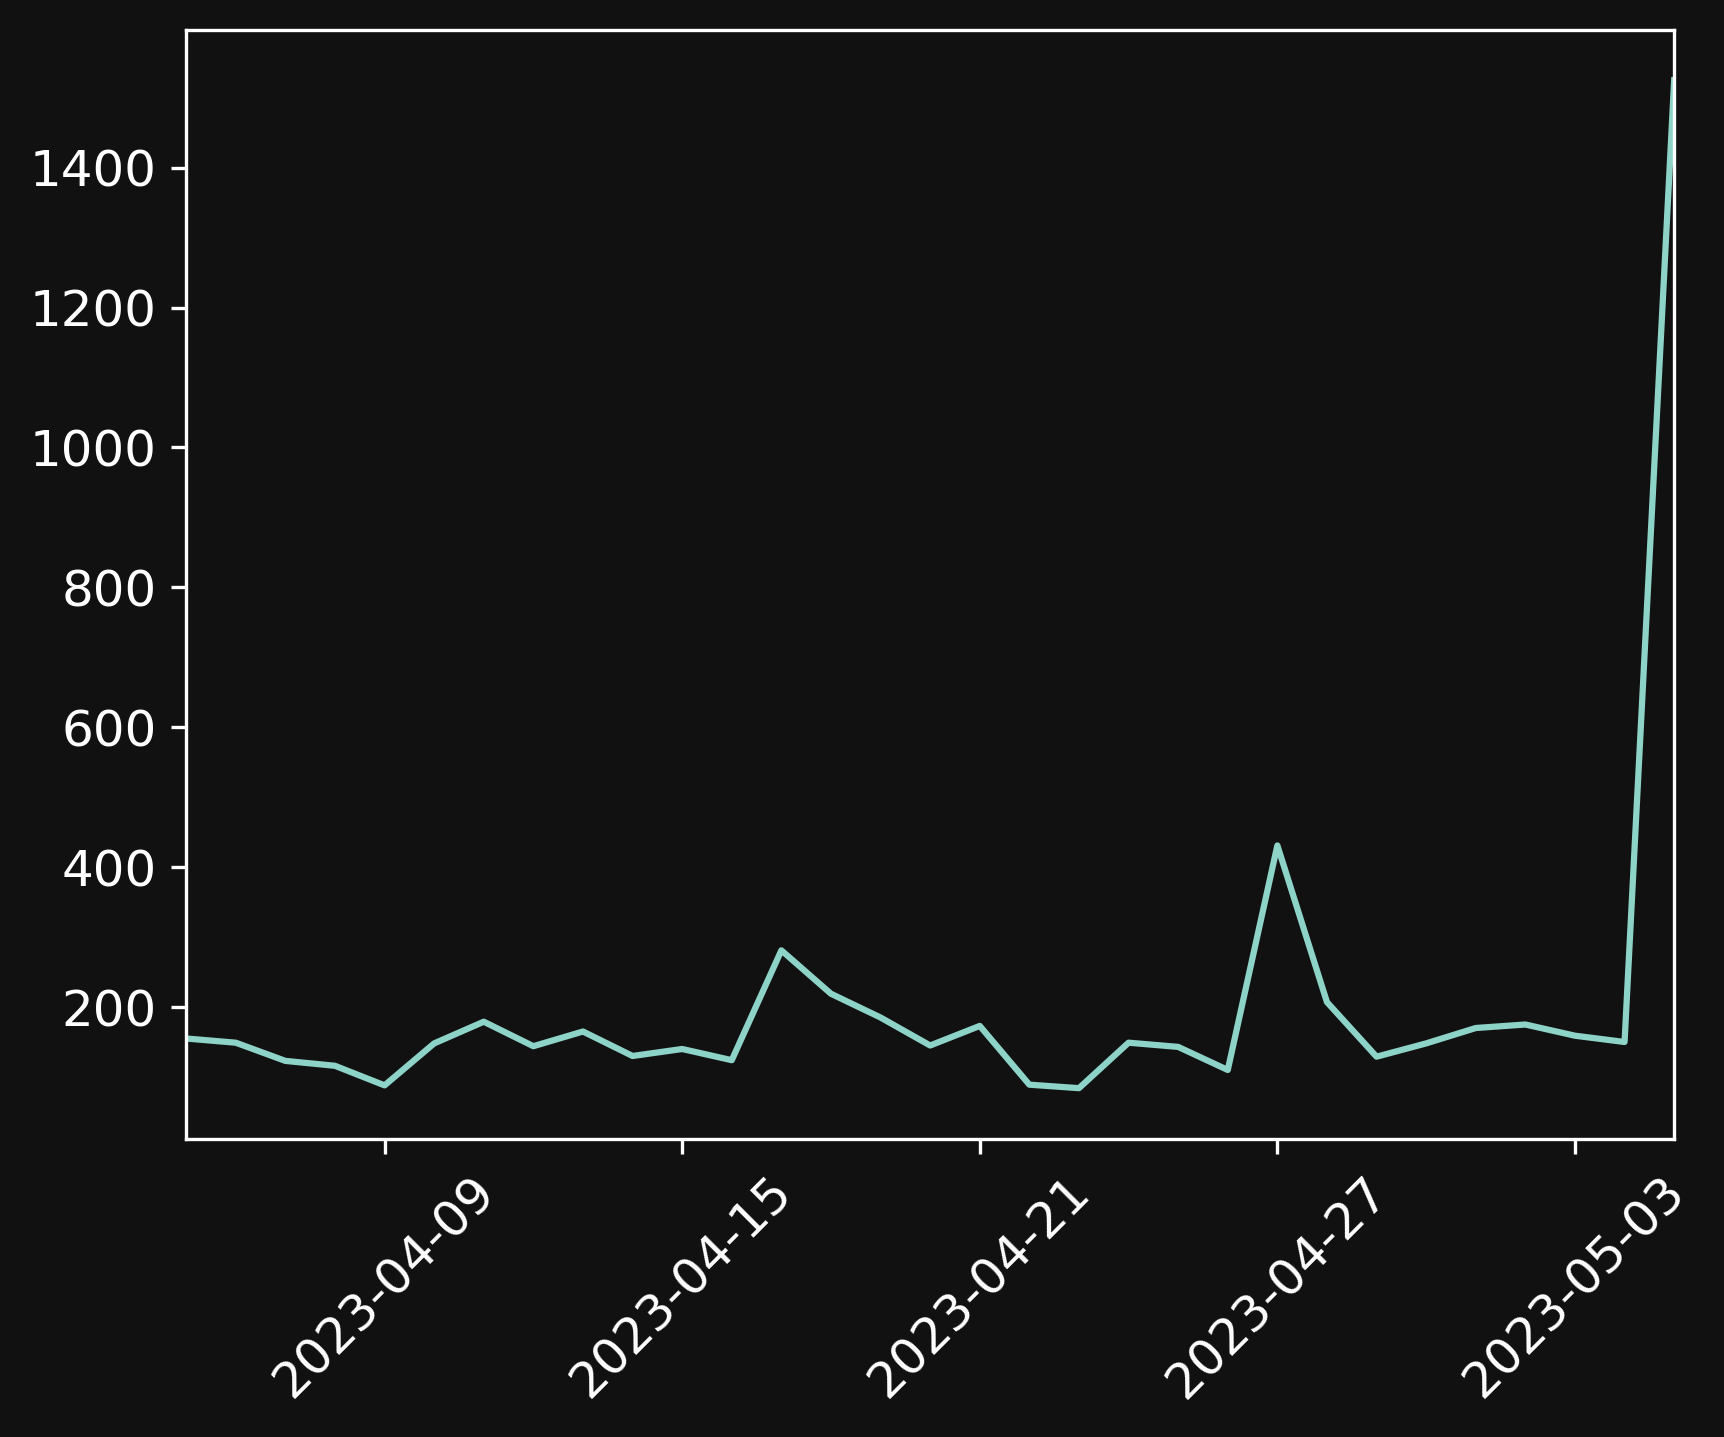
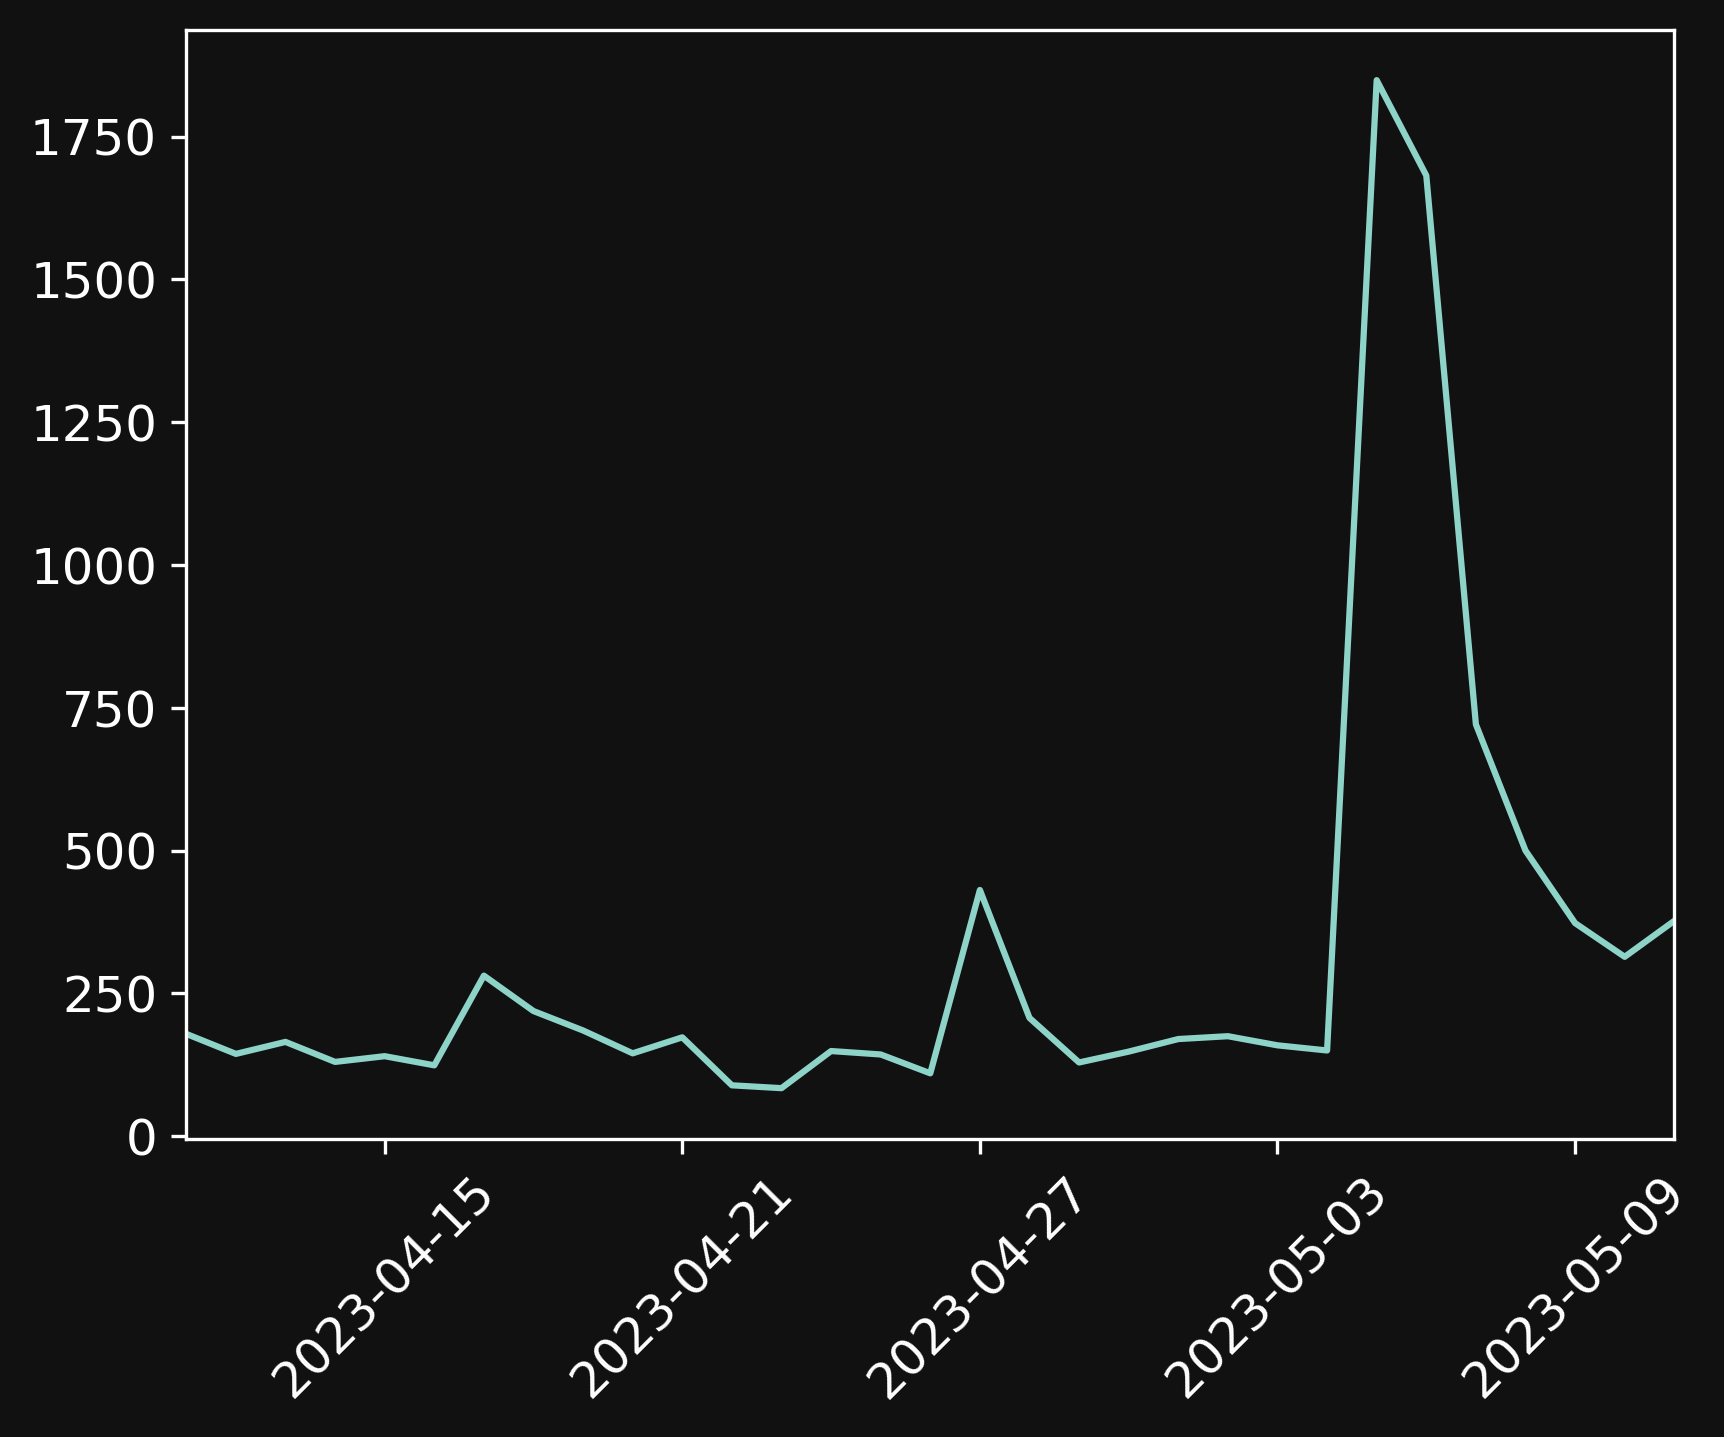
deploy: 48233be7c70ea5ae68009fdaba39e1e8a508710b

diff --git a/stats/index.html b/stats/index.html
@@ -1,7 +1,7 @@
-<!doctype html><html lang=en dir=auto><head><meta charset=utf-8><meta http-equiv=x-ua-compatible content="IE=edge"><meta name=viewport content="width=device-width,initial-scale=1,shrink-to-fit=no"><meta name=robots content="index, follow"><title>Stats | Navendu Pottekkat</title><meta name=keywords content><meta name=description content="Statistics."><meta name=author content="Navendu Pottekkat"><link rel=canonical href=https://navendu.me/stats/><script defer data-domain=navendu.me src=/misc/js/script.js data-api=/misc/api/event></script><script>window.plausible=window.plausible||function(){(window.plausible.q=window.plausible.q||[]).push(arguments)}</script><script></script><link crossorigin=anonymous href=/assets/css/stylesheet.6331ef93734e17ad083044fd4f764e0d12677d4055425ee90584ece5af6c6960.css integrity="sha256-YzHvk3NOF60IMET9T3ZODRJnfUBVQl7pBYTs5a9saWA=" rel="preload stylesheet" as=style><script src=https://ajax.googleapis.com/ajax/libs/jquery/3.5.1/jquery.min.js></script><script defer crossorigin=anonymous src=/assets/js/highlight.f413e19d0714851f6474e7ee9632408e58ac146fbdbe62747134bea2fa3415e0.js integrity="sha256-9BPhnQcUhR9kdOfuljJAjlisFG+9vmJ0cTS+ovo0FeA=" onload=hljs.initHighlightingOnLoad()></script><link rel=icon href=https://navendu.me/favicon.ico><link rel=icon type=image/png sizes=16x16 href=https://navendu.me/favicon-16x16.png><link rel=icon type=image/png sizes=32x32 href=https://navendu.me/favicon-32x32.png><link rel=apple-touch-icon href=https://navendu.me/apple-touch-icon.png><link rel=mask-icon href=https://navendu.me/safari-pinned-tab.svg><meta name=theme-color content="#2e2e33"><meta name=msapplication-TileColor content="#2e2e33"><noscript><style>#theme-toggle,.top-link{display:none}</style></noscript><meta property="og:title" content="Stats"><meta property="og:description" content="Statistics."><meta property="og:type" content="article"><meta property="og:url" content="https://navendu.me/stats/"><meta property="og:image" content="https://navendu.me/images/preview.png"><meta property="article:section" content><meta property="article:modified_time" content="2023-04-01T17:09:13+05:30"><meta property="og:site_name" content="Navendu Pottekkat"><meta name=twitter:card content="summary_large_image"><meta name=twitter:image content="https://navendu.me/images/preview.png"><meta name=twitter:title content="Stats"><meta name=twitter:description content="Statistics."><script type=application/ld+json>{"@context":"https://schema.org","@type":"BreadcrumbList","itemListElement":[{"@type":"ListItem","position":1,"name":"Stats","item":"https://navendu.me/stats/"}]}</script><script type=application/ld+json>{"@context":"https://schema.org","@type":"BlogPosting","headline":"Stats","name":"Stats","description":"Statistics.","keywords":[],"articleBody":"This page is a work in progress.\nAll the code and content of this website are publicly available. So should the statistics.\nThis page contains data and charts/insights from the data that I think you, as readers of my blog, would find interesting/relevant.\nAs mentioned in my ethics statement, this blog does not collect personal data or personally identifiable information.\nAll data is from the past month (30 days) and will be updated daily.\n","wordCount":"74","inLanguage":"en","datePublished":"0001-01-01T00:00:00Z","dateModified":"2023-04-01T17:09:13+05:30","author":{"@type":"Person","name":"Navendu Pottekkat"},"mainEntityOfPage":{"@type":"WebPage","@id":"https://navendu.me/stats/"},"publisher":{"@type":"Person","name":"Navendu Pottekkat","logo":{"@type":"ImageObject","url":"https://navendu.me/favicon.ico"}}}</script></head><body class=dark id=top><header class=header><nav class=nav><div class=logo><a href=https://navendu.me/ accesskey=h title="Navendu Pottekkat (Alt + H)">Navendu Pottekkat</a><div class=logo-switches></div></div><ul id=menu><li><a href=https://navendu.me/archives/ title=Archives><span>Archives</span></a></li><li><a href=https://navendu.me/categories/ title=Categories><span>Categories</span></a></li><li><a href=https://navendu.me/categories/daily-dose-of-pottekkat/ title="Daily Logs"><span>Daily Logs</span></a></li><li><a href=https://navendu.me/about/ title=About><span>About</span></a></li><li><a href=https://navendu.me/subscribe/ title=Subscribe><span>Subscribe</span></a></li></ul></nav></header><main class=main><article class=post-single><header class=post-header><h1 class=post-title>Stats</h1></header><div class=post-content><section class=last-run><blockquote><p><i>Last updated at 9:26 PM, 5th May 2023 (+0530)</i></p></blockquote></section><p>This page is a work in progress.</p><p>All the code and content of this website are publicly available. So should the statistics.</p><p>This page contains data and charts/insights from the data that I think you, as readers of my blog, would find interesting/relevant.</p><p>As mentioned in my <a href=/about/#ethics-statement>ethics statement</a>, this blog <a href=https://plausible.io/privacy-focused-web-analytics target=_blank>does not collect</a> personal data or personally identifiable information.</p><p>All data is from the past month (30 days) and will be updated daily.</p><section class=stats><h2 id=visitors-by-country>Visitors by Country<a hidden class=anchor aria-hidden=true href=#visitors-by-country>#</a></h2><p>It's always amazing to see people from around the world reading my blog. Most visitors come from
-India, United States of America, Kenya, and Germany.</p><figure class=align-center><img loading=lazy src=/images/stats/visitors-by-country.png#center alt="Chart showing the source of visitors over last one month."><figcaption>Stats from the last 30 days<p>Last updated at 9:26 PM, 5th May 2023 (+0530)</p></figcaption></figure><p>Shoutout to <a href=https://www.linkedin.com/in/christy-m-thomas/>Christy</a>, an actual GIS Engineer, who helped me create the chart above.</p><h2 id=visitors-per-day>Visitors per Day<a hidden class=anchor aria-hidden=true href=#visitors-per-day>#</a></h2><p>1525 people visited the
+<!doctype html><html lang=en dir=auto><head><meta charset=utf-8><meta http-equiv=x-ua-compatible content="IE=edge"><meta name=viewport content="width=device-width,initial-scale=1,shrink-to-fit=no"><meta name=robots content="index, follow"><title>Stats | Navendu Pottekkat</title><meta name=keywords content><meta name=description content="Statistics."><meta name=author content="Navendu Pottekkat"><link rel=canonical href=https://navendu.me/stats/><script defer data-domain=navendu.me src=/misc/js/script.js data-api=/misc/api/event></script><script>window.plausible=window.plausible||function(){(window.plausible.q=window.plausible.q||[]).push(arguments)}</script><script></script><link crossorigin=anonymous href=/assets/css/stylesheet.6331ef93734e17ad083044fd4f764e0d12677d4055425ee90584ece5af6c6960.css integrity="sha256-YzHvk3NOF60IMET9T3ZODRJnfUBVQl7pBYTs5a9saWA=" rel="preload stylesheet" as=style><script src=https://ajax.googleapis.com/ajax/libs/jquery/3.5.1/jquery.min.js></script><script defer crossorigin=anonymous src=/assets/js/highlight.f413e19d0714851f6474e7ee9632408e58ac146fbdbe62747134bea2fa3415e0.js integrity="sha256-9BPhnQcUhR9kdOfuljJAjlisFG+9vmJ0cTS+ovo0FeA=" onload=hljs.initHighlightingOnLoad()></script><link rel=icon href=https://navendu.me/favicon.ico><link rel=icon type=image/png sizes=16x16 href=https://navendu.me/favicon-16x16.png><link rel=icon type=image/png sizes=32x32 href=https://navendu.me/favicon-32x32.png><link rel=apple-touch-icon href=https://navendu.me/apple-touch-icon.png><link rel=mask-icon href=https://navendu.me/safari-pinned-tab.svg><meta name=theme-color content="#2e2e33"><meta name=msapplication-TileColor content="#2e2e33"><noscript><style>#theme-toggle,.top-link{display:none}</style></noscript><meta property="og:title" content="Stats"><meta property="og:description" content="Statistics."><meta property="og:type" content="article"><meta property="og:url" content="https://navendu.me/stats/"><meta property="og:image" content="https://navendu.me/images/preview.png"><meta property="article:section" content><meta property="article:modified_time" content="2023-04-01T17:09:13+05:30"><meta property="og:site_name" content="Navendu Pottekkat"><meta name=twitter:card content="summary_large_image"><meta name=twitter:image content="https://navendu.me/images/preview.png"><meta name=twitter:title content="Stats"><meta name=twitter:description content="Statistics."><script type=application/ld+json>{"@context":"https://schema.org","@type":"BreadcrumbList","itemListElement":[{"@type":"ListItem","position":1,"name":"Stats","item":"https://navendu.me/stats/"}]}</script><script type=application/ld+json>{"@context":"https://schema.org","@type":"BlogPosting","headline":"Stats","name":"Stats","description":"Statistics.","keywords":[],"articleBody":"This page is a work in progress.\nAll the code and content of this website are publicly available. So should the statistics.\nThis page contains data and charts/insights from the data that I think you, as readers of my blog, would find interesting/relevant.\nAs mentioned in my ethics statement, this blog does not collect personal data or personally identifiable information.\nAll data is from the past month (30 days) and will be updated daily.\n","wordCount":"74","inLanguage":"en","datePublished":"0001-01-01T00:00:00Z","dateModified":"2023-04-01T17:09:13+05:30","author":{"@type":"Person","name":"Navendu Pottekkat"},"mainEntityOfPage":{"@type":"WebPage","@id":"https://navendu.me/stats/"},"publisher":{"@type":"Person","name":"Navendu Pottekkat","logo":{"@type":"ImageObject","url":"https://navendu.me/favicon.ico"}}}</script></head><body class=dark id=top><header class=header><nav class=nav><div class=logo><a href=https://navendu.me/ accesskey=h title="Navendu Pottekkat (Alt + H)">Navendu Pottekkat</a><div class=logo-switches></div></div><ul id=menu><li><a href=https://navendu.me/archives/ title=Archives><span>Archives</span></a></li><li><a href=https://navendu.me/categories/ title=Categories><span>Categories</span></a></li><li><a href=https://navendu.me/categories/daily-dose-of-pottekkat/ title="Daily Logs"><span>Daily Logs</span></a></li><li><a href=https://navendu.me/about/ title=About><span>About</span></a></li><li><a href=https://navendu.me/subscribe/ title=Subscribe><span>Subscribe</span></a></li></ul></nav></header><main class=main><article class=post-single><header class=post-header><h1 class=post-title>Stats</h1></header><div class=post-content><section class=last-run><blockquote><p><i>Last updated at 9:26 PM, 11th May 2023 (+0530)</i></p></blockquote></section><p>This page is a work in progress.</p><p>All the code and content of this website are publicly available. So should the statistics.</p><p>This page contains data and charts/insights from the data that I think you, as readers of my blog, would find interesting/relevant.</p><p>As mentioned in my <a href=/about/#ethics-statement>ethics statement</a>, this blog <a href=https://plausible.io/privacy-focused-web-analytics target=_blank>does not collect</a> personal data or personally identifiable information.</p><p>All data is from the past month (30 days) and will be updated daily.</p><section class=stats><h2 id=visitors-by-country>Visitors by Country<a hidden class=anchor aria-hidden=true href=#visitors-by-country>#</a></h2><p>It's always amazing to see people from around the world reading my blog. Most visitors come from
+India, United States of America, Kenya, and Germany.</p><figure class=align-center><img loading=lazy src=/images/stats/visitors-by-country.png#center alt="Chart showing the source of visitors over last one month."><figcaption>Stats from the last 30 days<p>Last updated at 9:26 PM, 11th May 2023 (+0530)</p></figcaption></figure><p>Shoutout to <a href=https://www.linkedin.com/in/christy-m-thomas/>Christy</a>, an actual GIS Engineer, who helped me create the chart above.</p><h2 id=visitors-per-day>Visitors per Day<a hidden class=anchor aria-hidden=true href=#visitors-per-day>#</a></h2><p>1849 people visited the
 blog on 5th May 2023. This is the
-highest number of daily visitors in the past month.</p><p>Out of them, 1357 were here to
-read <a href=/posts/gateway-and-mesh/>this</a>.</p><figure class=align-center><img loading=lazy src=/images/stats/monthly-visitors.png#center alt="Chart showing visitors over last one month."><figcaption>Stats from the last 30 days<p>Last updated at 9:26 PM, 5th May 2023 (+0530)</p></figcaption></figure><h2 id=visitors-by-source>Visitors by Source<a hidden class=anchor aria-hidden=true href=#visitors-by-source>#</a></h2><p>Most people visited the site from the source: Direct / None.</p><p>There is a lot of traffic from direct links. I should level up my link-tagging game.</p><figure class=align-center><img loading=lazy src=/images/stats/monthly-sources.png#center alt="Chart showing the source of visitors over last one month."><figcaption>Stats from the last 30 days<p>Last updated at 9:26 PM, 5th May 2023 (+0530)</p></figcaption></figure><p>What should I add next here? Send your suggestions to <a href=mailto:navendu@apache.org>navendu@apache.org</a>.</p></section></div></article></main><footer class=footer><span>This work by <a href=https://navendu.me/about/#about-me>Navendu Pottekkat</a></span>
+highest number of daily visitors in the past month.</p><p>Out of them, 1655 were here to
+read <a href=/posts/gateway-and-mesh/>this</a>.</p><figure class=align-center><img loading=lazy src=/images/stats/monthly-visitors.png#center alt="Chart showing visitors over last one month."><figcaption>Stats from the last 30 days<p>Last updated at 9:26 PM, 11th May 2023 (+0530)</p></figcaption></figure><h2 id=visitors-by-source>Visitors by Source<a hidden class=anchor aria-hidden=true href=#visitors-by-source>#</a></h2><p>Most people visited the site from the source: Direct / None.</p><p>There is a lot of traffic from direct links. I should level up my link-tagging game.</p><figure class=align-center><img loading=lazy src=/images/stats/monthly-sources.png#center alt="Chart showing the source of visitors over last one month."><figcaption>Stats from the last 30 days<p>Last updated at 9:26 PM, 11th May 2023 (+0530)</p></figcaption></figure><p>What should I add next here? Send your suggestions to <a href=mailto:navendu@apache.org>navendu@apache.org</a></p></section></div></article></main><footer class=footer><span>This work by <a href=https://navendu.me/about/#about-me>Navendu Pottekkat</a></span>
 <span>is licensed under <a rel=license href=http://creativecommons.org/licenses/by-sa/4.0 target=_blank>CC BY-SA 4.0</a></span></footer><a href=#top aria-label="go to top" title="Go to Top (Alt + G)"><button class=top-link id=top-link type=button accesskey=g><svg xmlns="http://www.w3.org/2000/svg" viewBox="0 0 12 6" fill="currentcolor"><path d="M12 6H0l6-6z"/></svg></button></a>
 <script>let menu=document.getElementById('menu');menu&&(menu.scrollLeft=localStorage.getItem("menu-scroll-position"),menu.onscroll=function(){localStorage.setItem("menu-scroll-position",menu.scrollLeft)}),document.querySelectorAll('a[href^="#"]').forEach(a=>{a.addEventListener("click",function(b){b.preventDefault();var a=this.getAttribute("href").substr(1);window.matchMedia('(prefers-reduced-motion: reduce)').matches?document.querySelector(`[id='${decodeURIComponent(a)}']`).scrollIntoView():document.querySelector(`[id='${decodeURIComponent(a)}']`).scrollIntoView({behavior:"smooth"}),a==="top"?history.replaceState(null,null," "):history.pushState(null,null,`#${a}`)})})</script><script>var mybutton=document.getElementById("top-link");window.onscroll=function(){document.body.scrollTop>800||document.documentElement.scrollTop>800?(mybutton.style.visibility="visible",mybutton.style.opacity="1"):(mybutton.style.visibility="hidden",mybutton.style.opacity="0")}</script><script>document.querySelectorAll('pre > code').forEach(b=>{const c=b.parentNode.parentNode,a=document.createElement('button');a.classList.add('copy-code'),a.innerHTML='copy';function d(){a.innerHTML='copied!',setTimeout(()=>{a.innerHTML='copy'},2e3)}a.addEventListener('click',e=>{if('clipboard'in navigator){navigator.clipboard.writeText(b.textContent),d();return}const a=document.createRange();a.selectNodeContents(b);const c=window.getSelection();c.removeAllRanges(),c.addRange(a);try{document.execCommand('copy'),d()}catch(a){}c.removeRange(a)}),c.classList.contains("highlight")?c.appendChild(a):c.parentNode.firstChild==c||(b.parentNode.parentNode.parentNode.parentNode.parentNode.nodeName=="TABLE"?b.parentNode.parentNode.parentNode.parentNode.parentNode.appendChild(a):b.parentNode.appendChild(a))})</script><script>for(var els=document.getElementsByClassName("highlight"),i=0,title,code,newNode;i<els.length;i++)title=els[i].title,code=els[i].firstElementChild.firstElementChild,title.length&&(newNode=document.createElement("div"),newNode.textContent=title,newNode.classList.add("highlight-title"),code.parentNode.insertBefore(newNode,code))</script></body></html>
